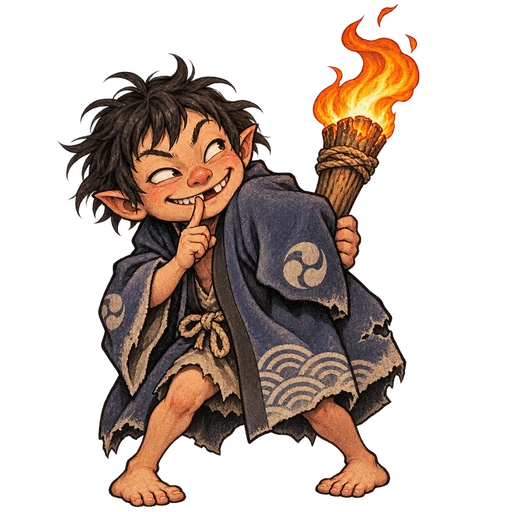
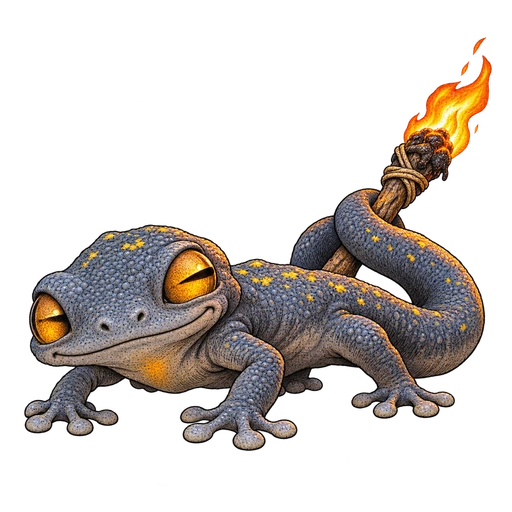
火つけ小僧と火つけ大将を尾で松明を扱う四足の火トカゲに描き直す

diff --git a/doc/battle/MONSTER_CATALOG.md b/doc/battle/MONSTER_CATALOG.md
@@ -4118,7 +4118,7 @@ kagaribi_torch_thief_solo：煤ネズミ（松明泥棒）×1。逃走可。
 画像ID：monster_kagaribi_torch_prankster。実ファイル：[assets/images/monsters/torch_prankster.webp](../../assets/images/monsters/torch_prankster.webp)。
 画像共有：他の敵定義との共有なし。
 
-ぶかぶかの半纏に松明を隠す、前歯が一本抜けた小妖怪。灯蛾を連れ、敵味方かまわず火遊びをします。
+尾の先で松明を抱えた小さな火トカゲ。腹ばいで忍び寄り、よそを向いたまま火先だけをそっと突き出します。
 
 基礎能力：HP 56 / MP 0 / STR 11 / VIT 6 / AGI 13 / INT 6。報酬：12G / 54EXP。
 宝箱：予備灯油 1個 / 12.5％。
@@ -4142,7 +4142,7 @@ kagaribi_prankster_pair：火つけ小僧×1・灯蛾×1。逃走可。
 画像ID：monster_kagaribi_torch_ringleader。実ファイル：[assets/images/monsters/torch_ringleader.webp](../../assets/images/monsters/torch_ringleader.webp)。
 画像共有：他の敵定義との共有なし。
 
-指笛の得意なガキ大将。松明に灯蛾を集め、次の手番で残った灯蛾にまとめて火をつけます。
+太い尾で松明を持ち上げる、大きな火トカゲ。喉袋を膨らませてひと声鳴くと、灯蛾が火のまわりに集まります。
 
 基礎能力：HP 124 / MP 0 / STR 18 / VIT 10 / AGI 14 / INT 10。報酬：22G / 115EXP。
 宝箱：予備灯油 1個 / 12.5％。
